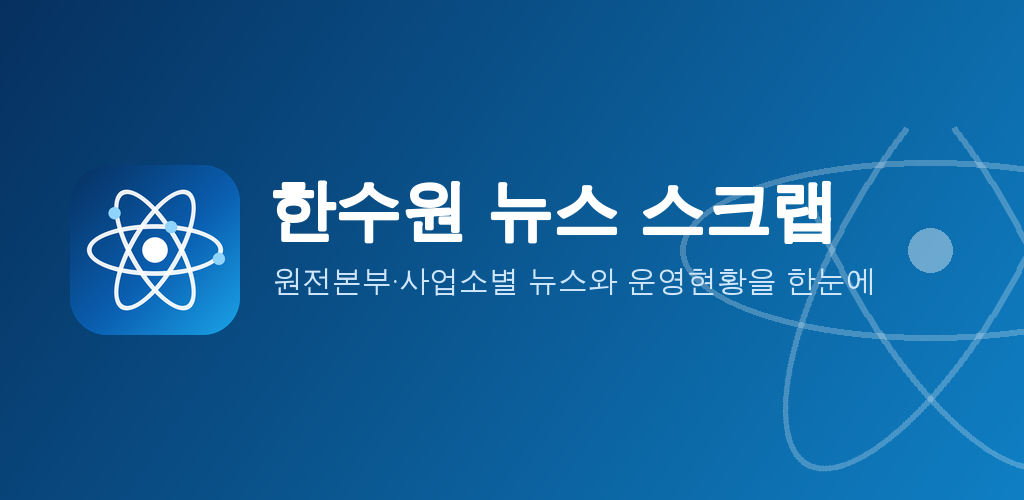
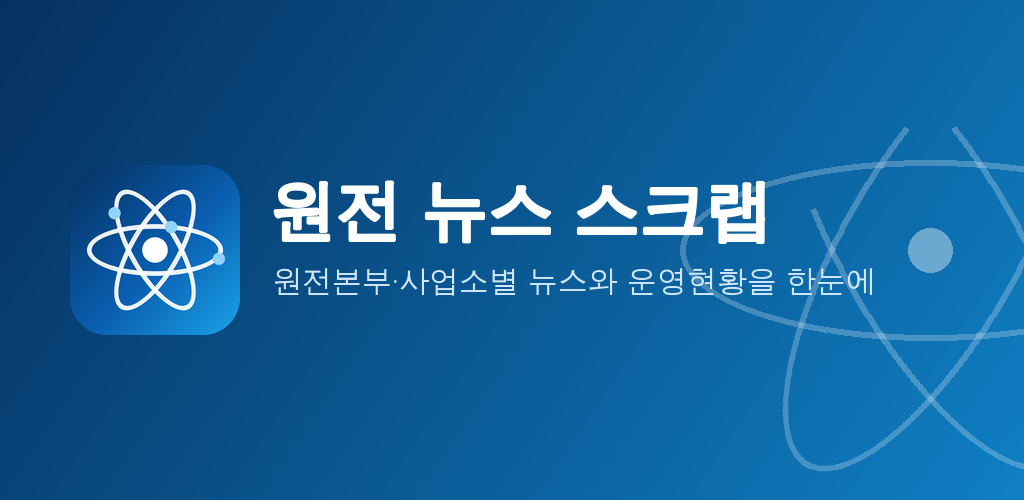
새울본부 배너 제거, 앱 이름을 '원전 뉴스 스크랩'으로 변경(웹·매니페스트·개인정보처리방침·스토어 자료)
Claude-Session: https://claude.ai/code/session_01Y8VkhLhsxDNgGHtuMAVLDo

Changed region(s): [[0.25, 0.36, 0.8125, 0.51]]

diff --git a/public/privacy.html b/public/privacy.html
@@ -1,7 +1,7 @@
 <!doctype html><html lang="ko"><head><meta charset="utf-8">
 <meta name="viewport" content="width=device-width,initial-scale=1">
-<title>개인정보처리방침 · 한수원 뉴스 스크랩</title>
-<meta name="description" content="한수원 뉴스 스크랩 앱의 개인정보처리방침">
+<title>개인정보처리방침 · 원전 뉴스 스크랩</title>
+<meta name="description" content="원전 뉴스 스크랩 앱의 개인정보처리방침">
 <style>
 :root{--bg:#eef3f9;--card:#fff;--tx:#14202e;--mut:#5b6b7d;--bd:#d9e3ee;--ac:#0a5eb0}
 @media(prefers-color-scheme:dark){:root{--bg:#0b1520;--card:#12202f;--tx:#e6eef7;--mut:#93a4b8;--bd:#1f3347;--ac:#5aa9f0}}
@@ -12,7 +12,7 @@ h1{font-size:22px;margin:0 0 4px}h2{font-size:17px;margin:26px 0 6px}p,li{margin
 .mut{color:var(--mut);font-size:14px}a{color:var(--ac)}
 </style></head><body><main><div class="card">
 <h1>개인정보처리방침</h1>
-<p class="mut">한수원 뉴스 스크랩 (이하 "앱") · 시행일 2026-10-21</p>
+<p class="mut">원전 뉴스 스크랩 (이하 "앱") · 시행일 2026-10-21</p>
 <p>앱은 이용자의 개인정보를 수집하지 않습니다. 아래는 앱이 어떤 정보를 어떻게 다루는지에 대한 설명입니다.</p>
 
 <h2>1. 수집하는 개인정보</h2>
@@ -30,7 +30,7 @@ h1{font-size:22px;margin:0 0 4px}h2{font-size:17px;margin:26px 0 6px}p,li{margin
 <li>날씨: Open-Meteo(공개 기상 데이터).</li>
 <li>원전 운영현황·방사선량·기상: 한국수력원자력 열린원전운영정보(npp.khnp.co.kr)의 공개 정보.</li>
 <li>AI 요약: 공개된 기사 제목 등을 AI 서비스(Google Gemini 또는 Anthropic Claude)로 보내 요약합니다. 이용자의 개인정보는 전송되지 않습니다.</li>
-<li>이용자가 기사·배너 링크를 누르면 해당 외부 사이트로 이동하며, 그 사이트의 개인정보처리방침이 적용됩니다.</li>
+<li>이용자가 기사 링크를 누르면 해당 외부 사이트로 이동하며, 그 사이트의 개인정보처리방침이 적용됩니다.</li>
 </ul>
 
 <h2>5. 아동의 개인정보</h2>

diff --git a/public/index.html b/public/index.html
@@ -6,9 +6,9 @@
 <link rel="apple-touch-icon" href="/icons/apple-touch-icon.png">
 <meta name="mobile-web-app-capable" content="yes">
 <meta name="apple-mobile-web-app-capable" content="yes">
-<meta name="apple-mobile-web-app-title" content="한수원뉴스">
+<meta name="apple-mobile-web-app-title" content="원전뉴스">
 <meta name="apple-mobile-web-app-status-bar-style" content="black-translucent">
-<title>한수원 뉴스 스크랩 2.1</title>
+<title>원전 뉴스 스크랩 2.1</title>
 <link rel="stylesheet" href="https://cdn.jsdelivr.net/gh/orioncactus/pretendard@v1.3.9/dist/web/static/pretendard.min.css">
 <style>
 :root{
@@ -186,7 +186,7 @@ details.kw{margin-bottom:12px;font-size:13px}details.kw summary{cursor:pointer;c
  </svg>
  <div class="in">
   <div class="eyebrow"><i></i>NEWS SCRAP · KHNP <span class="ver">2.1</span></div>
-  <h1>한수원 뉴스 스크랩</h1>
+  <h1>원전 뉴스 스크랩</h1>
   <p class="lead">새울본부를 중심으로 원전본부·사업소별 보도를 탭으로 한눈에</p>
   <div class="meta" id="meta">불러오는 중…</div>
   <button class="inst" id="install" hidden>⬇ 앱으로 설치</button>

diff --git a/news_scrap.py b/news_scrap.py
@@ -1,4 +1,4 @@
-"""한수원 뉴스 스크랩 2.0 (새울본부 메인 + 본부·사업소별 탭) - 로컬 실행용.
+"""원전 뉴스 스크랩 2.0 (새울본부 메인 + 본부·사업소별 탭) - 로컬 실행용.
 실행: python news_scrap.py  (브라우저가 자동으로 열립니다)
 주간 AI 요약을 쓰려면 환경변수 GEMINI_API_KEY 또는 ANTHROPIC_API_KEY 가 필요합니다.
 Vercel 배포 시에는 public/index.html + api/*.py 가 사용됩니다.

diff --git a/play-store/listing.md b/play-store/listing.md
@@ -1,13 +1,15 @@
 # Google Play 스토어 등록정보 (복사해서 붙여넣기)
 
 ## 앱 이름 (30자 이내)
-한수원 뉴스 스크랩
+원전 뉴스 스크랩
 
 ## 간단한 설명 (80자 이내)
-한수원 새울본부 중심, 원전본부·사업소별 뉴스와 운영현황을 한눈에 보는 비공식 뉴스 앱
+한국수력원자력 공식 앱이 아닙니다. 새울본부 중심, 원전본부·사업소별 뉴스와 운영현황 모음
 
 ## 자세한 설명 (4000자 이내)
-한수원 뉴스 스크랩은 한국수력원자력 관련 보도를 본부·사업소별로 모아 보여 주는 개인용 뉴스 모니터링 앱입니다. 새울본부 소식을 가장 먼저 보여 주고, 탭으로 한울·고리·한빛·월성 등 다른 본부와 사업소의 기사를 바로 확인할 수 있습니다.
+※ 이 앱은 개인이 만든 비공식 앱이며, 한국수력원자력(주)의 공식 서비스가 아닙니다.
+
+원전 뉴스 스크랩은 한국수력원자력 관련 보도를 본부·사업소별로 모아 보여 주는 개인용 뉴스 모니터링 앱입니다. 새울본부 소식을 가장 먼저 보여 주고, 탭으로 한울·고리·한빛·월성 등 다른 본부와 사업소의 기사를 바로 확인할 수 있습니다.
 
 ■ 주요 기능
 • 본부·사업소별 탭: 새울·한울·고리·한빛·월성본부, 해외사업소, 양수건설, 수력양수, 교육연구보건 등

diff --git a/play-store/GUIDE.md b/play-store/GUIDE.md
@@ -1,4 +1,4 @@
-# Google Play 등록 가이드 (한수원 뉴스 스크랩)
+# Google Play 등록 가이드 (원전 뉴스 스크랩)
 
 앱 주소: https://saeul-newsscrape.vercel.app  (웹앱/PWA를 안드로이드 앱으로 감싸는 방식: TWA)
 
@@ -12,7 +12,7 @@
 2. 점수 화면에서 **Package For Stores** → **Android** → **Generate Package**(Google Play)
 3. 옵션:
    - Package ID: `com.syhanet.khnpnews`
-   - App name: `한수원 뉴스 스크랩` / Short name: `한수원뉴스`
+   - App name: `원전 뉴스 스크랩` / Short name: `원전뉴스`
    - App version: `1.0.0` / App version code: `1`
    - Display mode: Standalone, Notification delegation 등은 기본값
    - **Signing key: New** (PWABuilder가 키를 만들어 줌)
@@ -23,7 +23,7 @@
 5. 다음 버전을 올릴 때는 같은 키로, **버전 코드(version code)를 1씩 올려서** 다시 만듭니다.
 
 ## 2. Play Console에 올리기
-1. 앱 만들기: 앱 이름 `한수원 뉴스 스크랩`, 기본 언어 한국어, 앱, 무료
+1. 앱 만들기: 앱 이름 `원전 뉴스 스크랩`, 기본 언어 한국어, 앱, 무료
 2. 테스트 → **내부 테스트** → 새 버전 만들기 → `.aab` 업로드 (Play 앱 서명 사용에 동의)
 3. 설정 → **앱 무결성 → 앱 서명**에서 *앱 서명 키 인증서 SHA-256 지문* 복사
 
